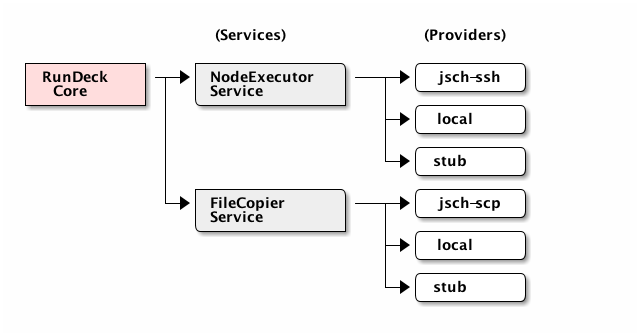
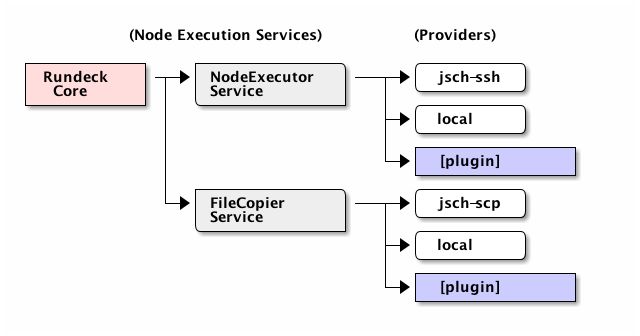
Update service providers diagram for step plugins
for #246

diff --git a/en/manual/08-plugins.md b/en/manual/08-plugins.md
@@ -112,6 +112,8 @@ that is used to identify it, and most Services have default Providers unless
 you specify different ones to use.
 
 ![Rundeck Services and Providers](../figures/fig1101.png)
+![Rundeck Services and Providers](../figures/fig1101_2.png)
+![Rundeck Services and Providers](../figures/fig1101_3.png)
 
 Services fall into different categories, which determine how and where they are used.
 
